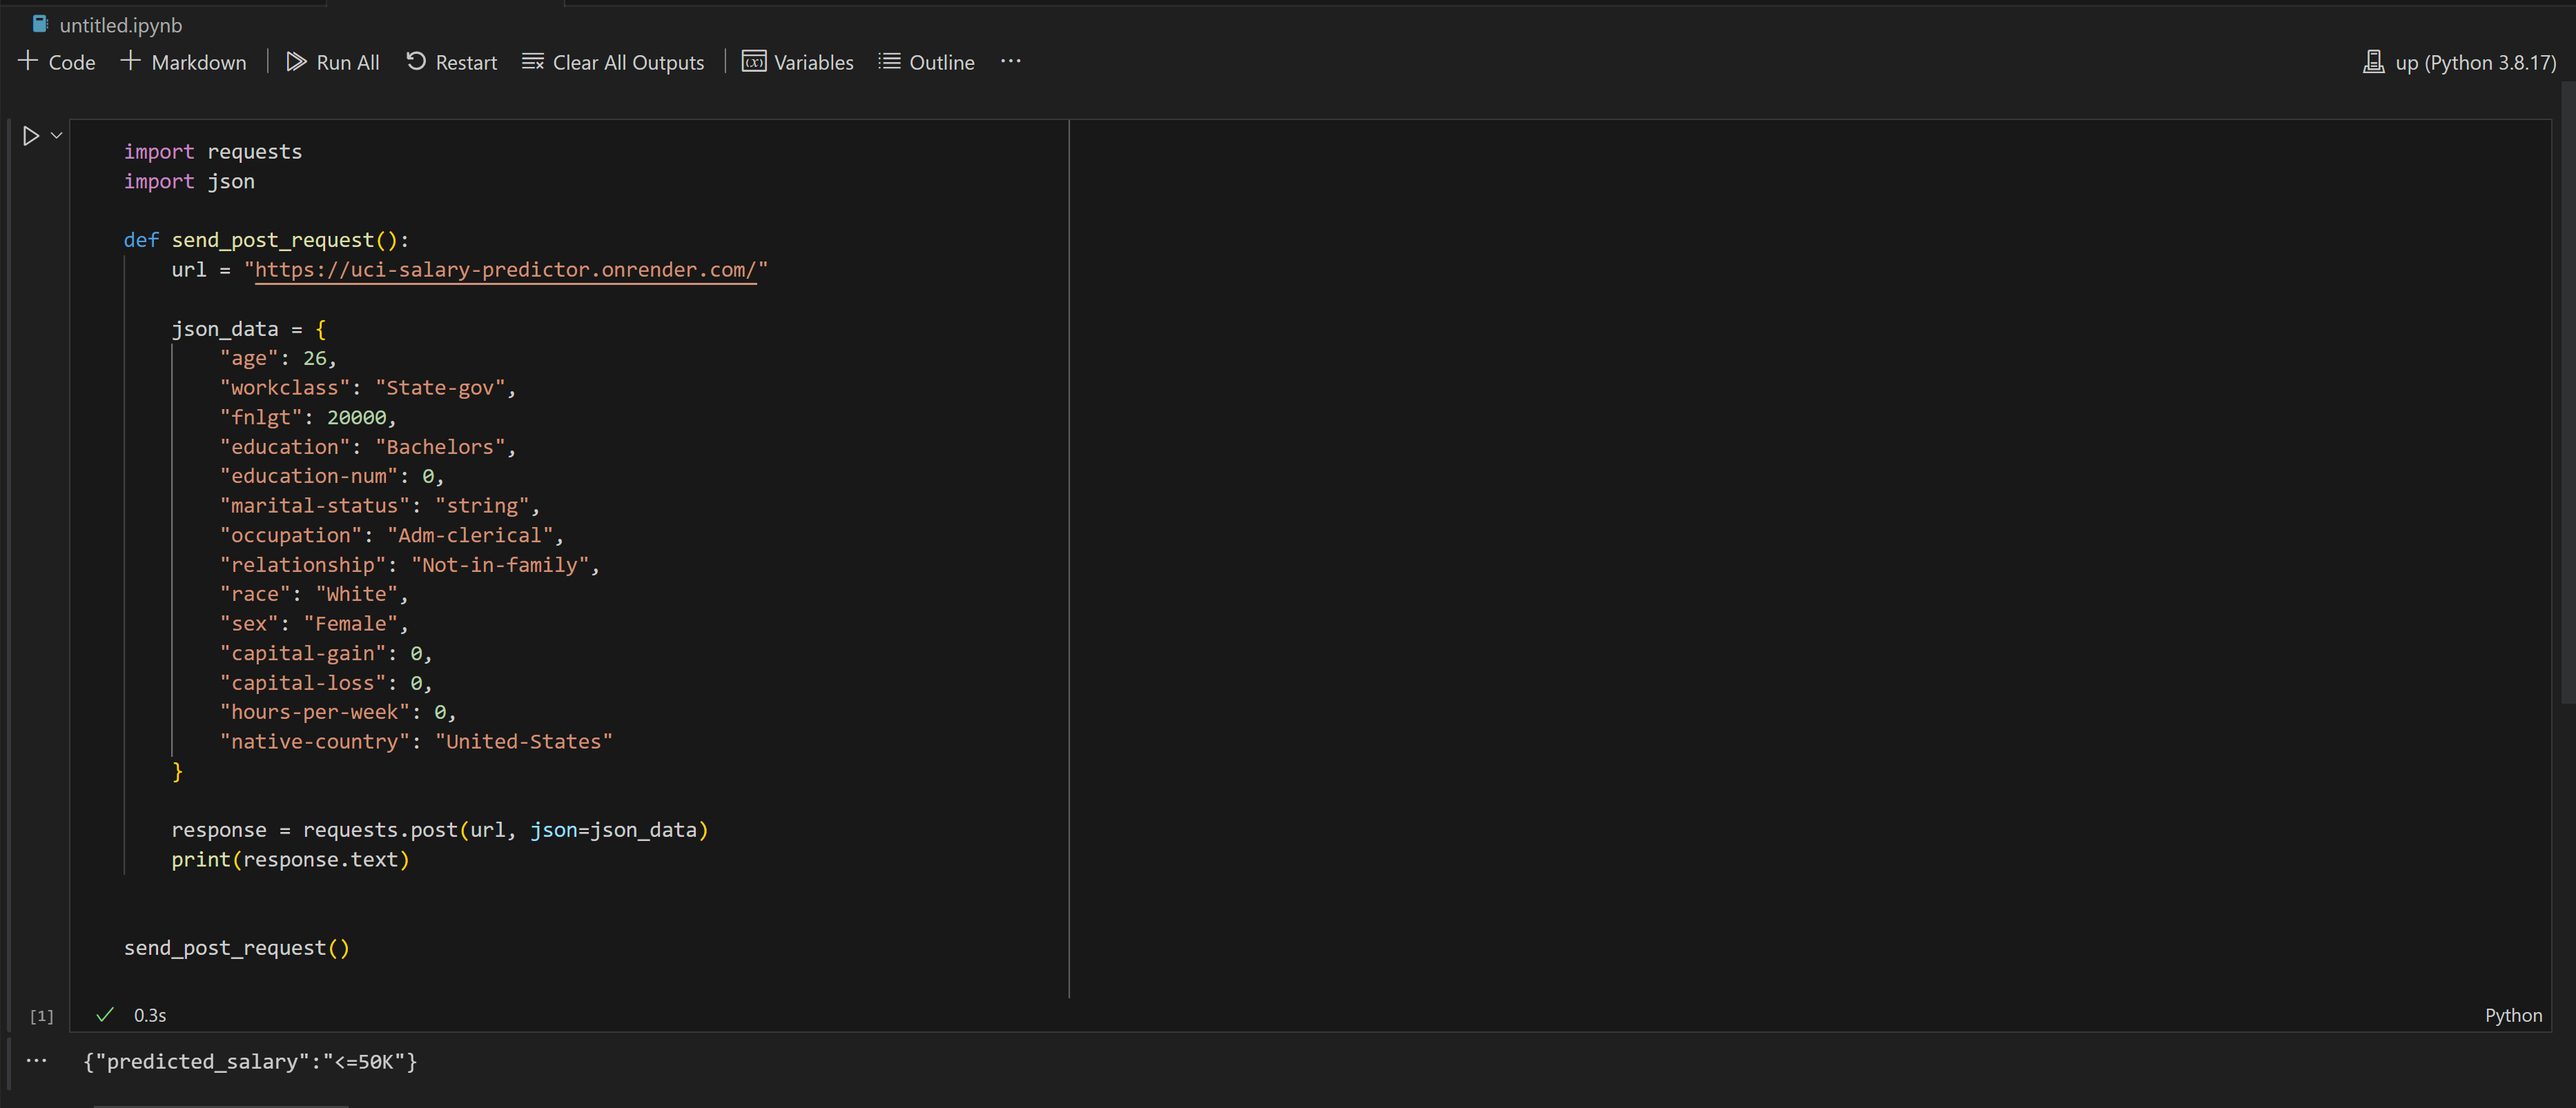
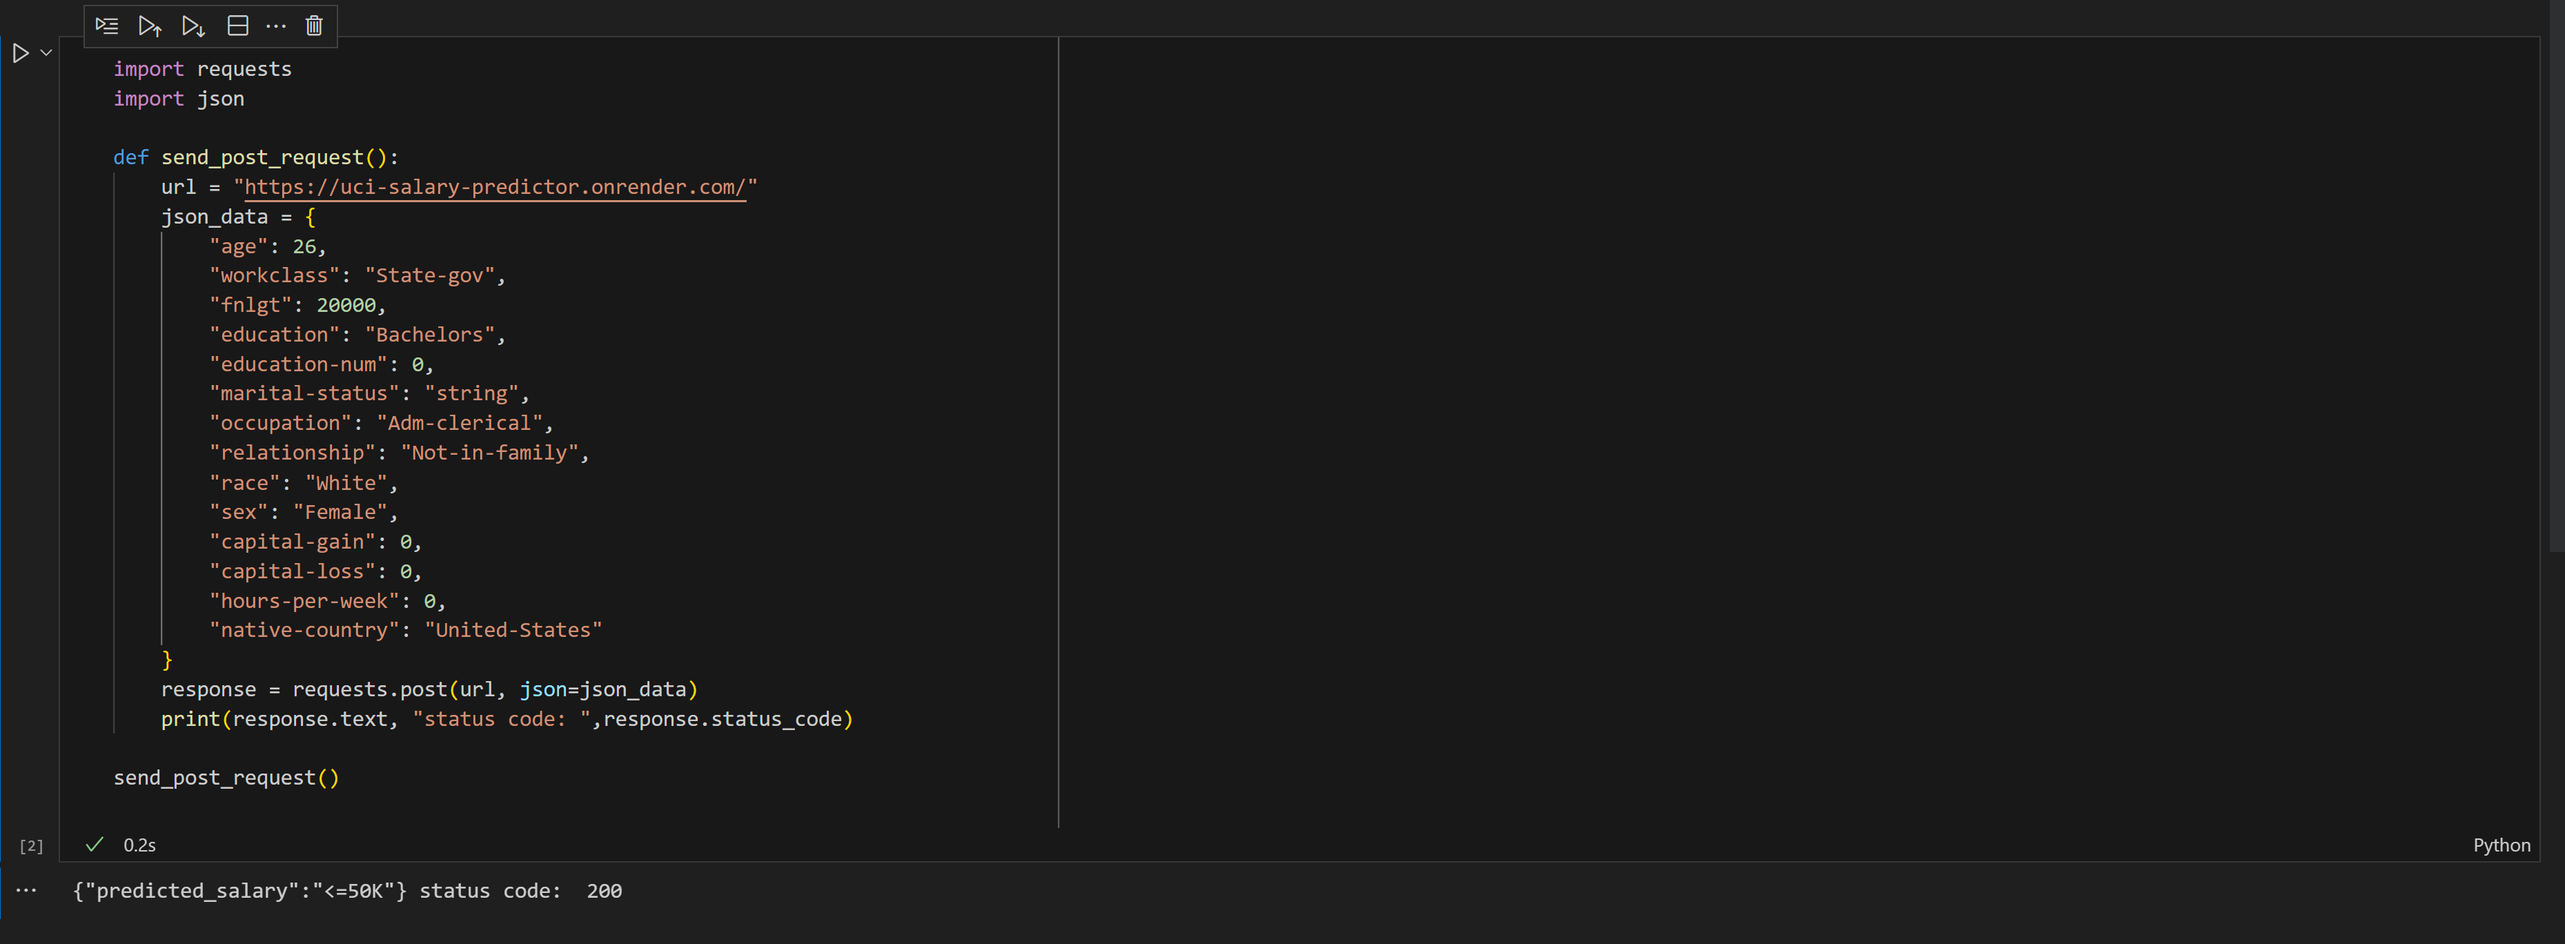
Updated screenshot, live post script

diff --git a/send_post_request.py b/send_post_request.py
@@ -20,6 +20,6 @@ def send_post_request():
         "native-country": "United-States"
     }
     response = requests.post(url, json=json_data)
-    print(response.text)
+    print(response.text, "status code: ",response.status_code)
 
 send_post_request()
